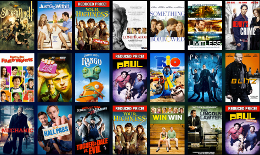
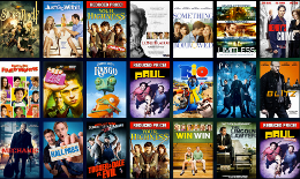
fixing pics and add contac

diff --git a/source/assets/stylesheets/site/_site.scss b/source/assets/stylesheets/site/_site.scss
@@ -84,6 +84,7 @@ a.site-title {
 
 .movies {
   float: left;
+  padding-left: 15px;
 }
 // ------------------------------------------------------------
 // Mobile Menu
